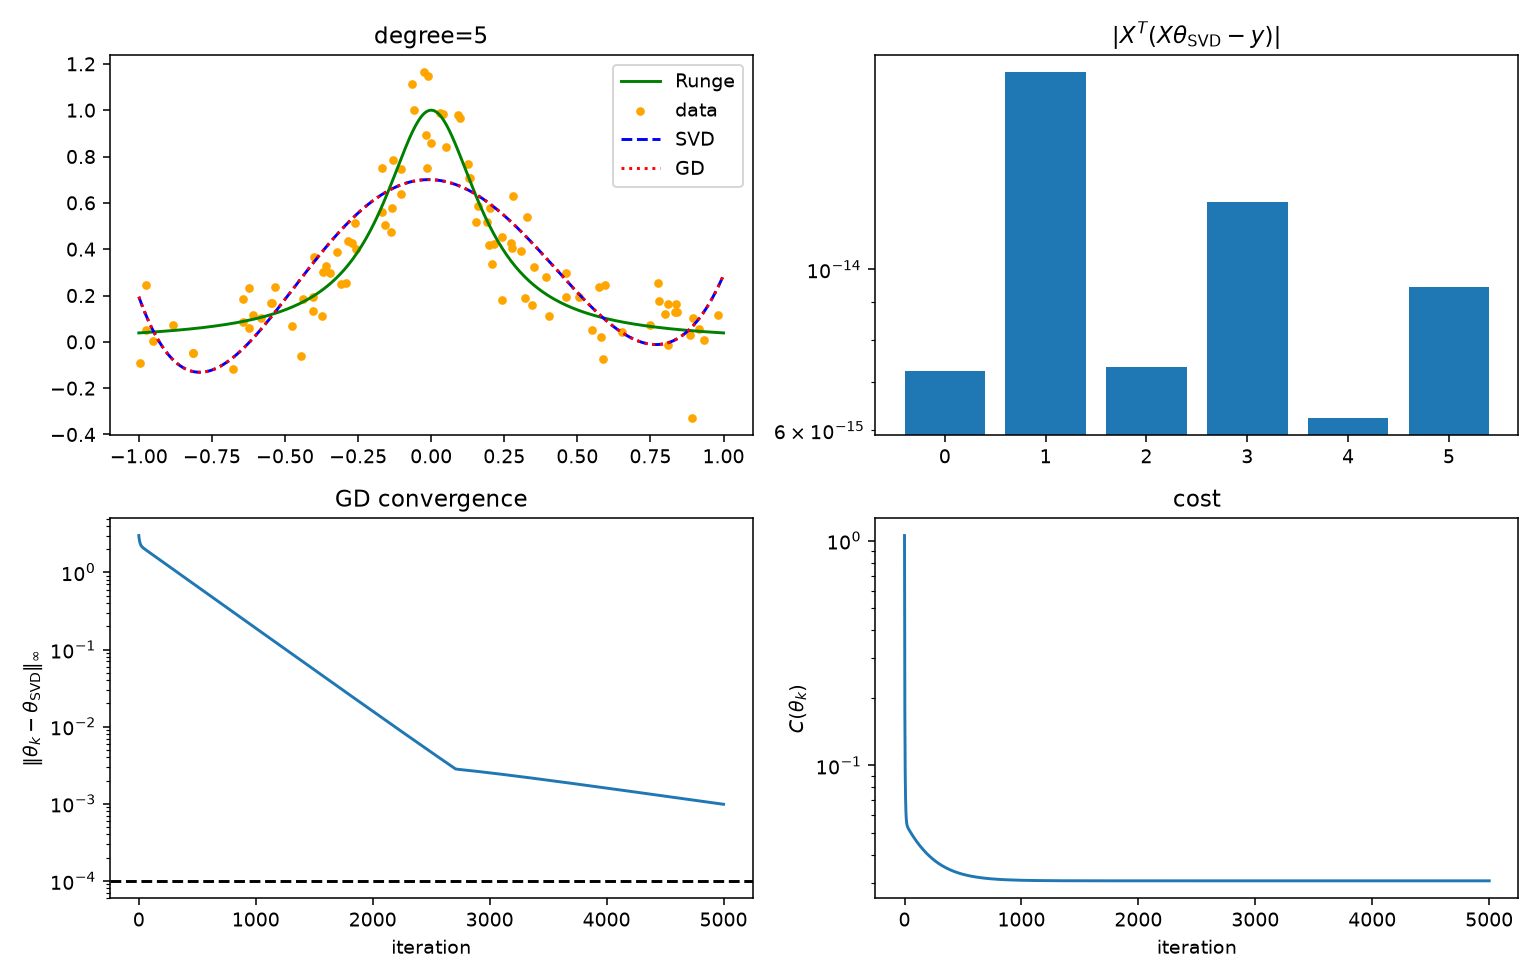
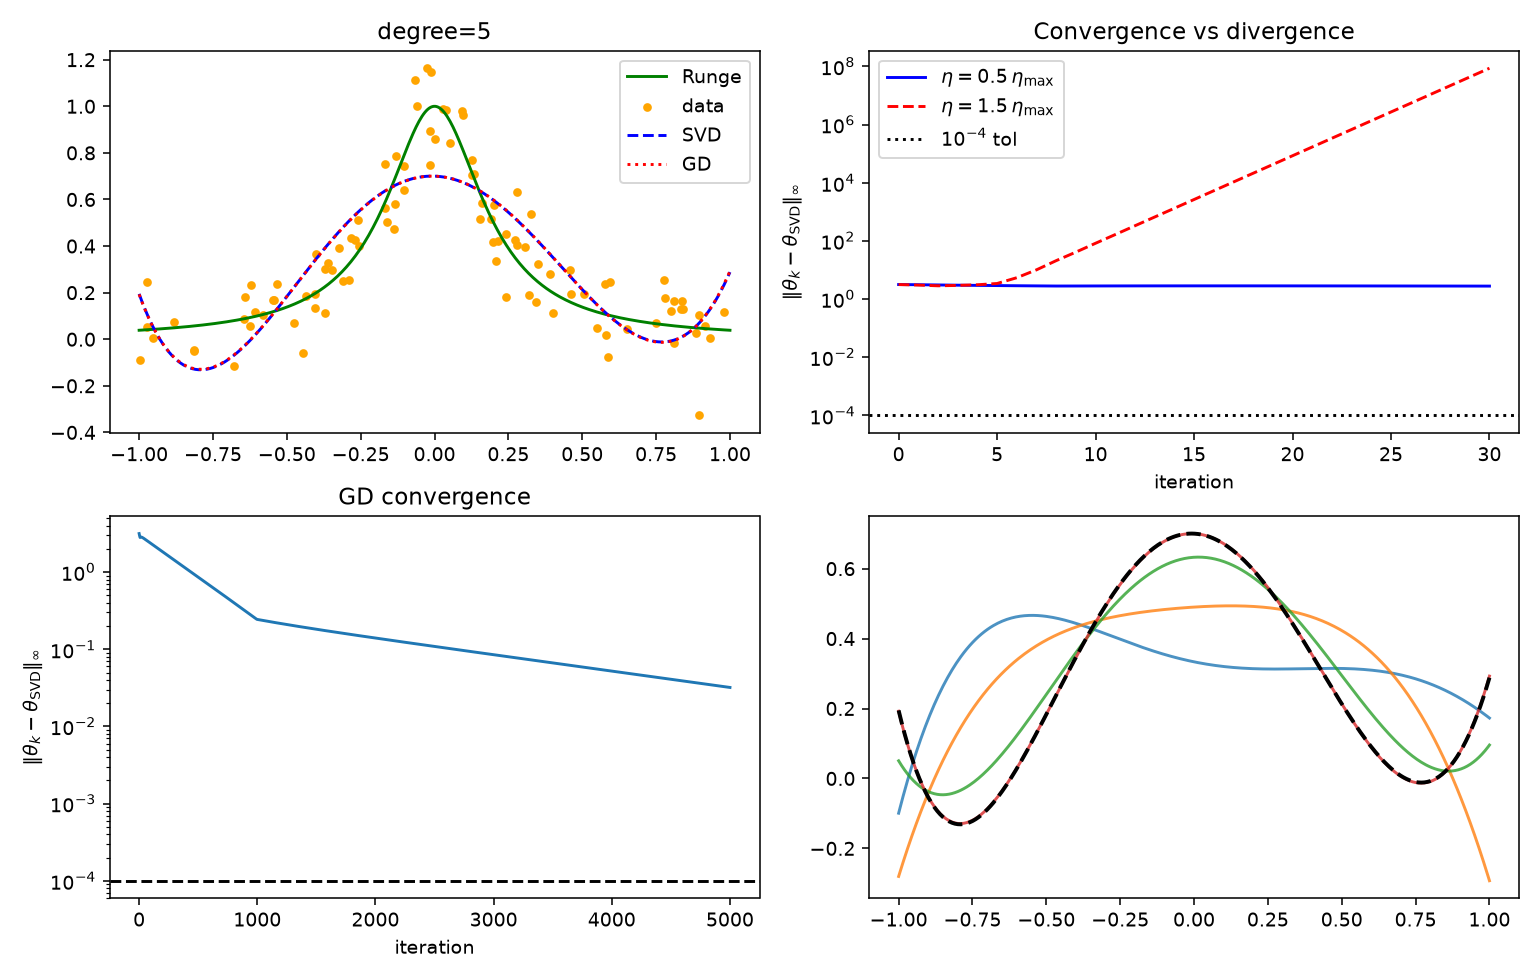
everything working now

diff --git a/Project1/results/theta_tests.py b/Project1/results/theta_tests.py
@@ -13,7 +13,10 @@ from polynomials.optimizers import eta_max_ols, cost_ols,cost_ridge, grad_ols_an
 import importlib, polynomials.optimizers
 importlib.reload(polynomials.optimizers)
 
-# ================= First we test SVD-based OLS fit on a simple example =================
+# =================================================================
+# (1) First we test SVD-based OLS fit on a simple example 
+# =================================================================
+
 x,y = generate_data(n=100, sigma=0.1, seed=2026)
 degree = 5 #Can also be changed to be for 8-15
 X = design_matrix(x, degree, intercept=True)
@@ -23,13 +26,16 @@ Xx = design_matrix(xx, degree, intercept=True)
 # ------------- Compare two solutions -------------------
 rng = np.random.default_rng(0)
 theta0 = rng.normal(size=X.shape[1])
-eta_safe = 0.5* eta_max_ols(X, X.shape[0])
 
-theta_ols_svd = fit_ols_SVD(X, y, rcond=1e-12) # "analytical" (closed form)
-theta_gd,hist = gd(grad_ols_analytic, theta0, n_iter=5000, eta=eta_safe, X=X, y=y) # iterative (gradient descent)
+eta = 0.5 * eta_max_ols(X, 100)
+eta_explode = 1.5 * eta_max_ols(X, 100)
+
+theta_gd, hist_gd = gd(grad_ols_analytic, theta0,
+                       n_iter=5000, eta=eta, X=X, y=y)
+theta_svd = fit_ols_SVD(X, y)
 
 # =================================================================
-# (1) GRADIENT CHECK:  analytic vs JAX AD, at the same theta
+# (2) GRADIENT CHECK:  analytic vs JAX AD, at the same theta
 # =================================================================
 g_an_ols   = grad_ols_analytic(theta0, X, y)
 g_ad_ols   = jax.grad(cost_ols, argnums=0)(theta0, X, y)
@@ -43,21 +49,12 @@ print(f"Ridge |∇_an − ∇_ad|_∞ = {np.max(np.abs(g_an_ridge - g_ad_ridge))
 # Both should print ~1e-15 to 1e-16 (machine precision).
 
 # =================================================================
-# (2) CLOSED-FORM CHECK:  GD must converge to fit_ols_SVD
+# CONVERGENCE / STABILITY PLOT
 # =================================================================
-eta = 0.5 * eta_max_ols(X, 100)
-eta_explode = 1.5 * eta_max_ols(X, 100)
+# trajectories for the stability panel
+_, hist_safe    = gd(grad_ols_analytic, theta0, n_iter=30, eta=eta,         X=X, y=y)
+_, hist_explode = gd(grad_ols_analytic, theta0, n_iter=30, eta=eta_explode, X=X, y=y)
 
-theta_gd, hist_gd = gd(grad_ols_analytic, theta0,
-                       n_iter=5000, eta=eta, X=X, y=y)
-theta_svd = fit_ols_SVD(X, y)
-
-print(f"GD vs SVD  |Δθ|_∞ = {np.max(np.abs(theta_gd - theta_svd)):.2e}")
-# Should be small (< 1e-3 at degree 5).
-
-# =================================================================
-# (3) CONVERGENCE / STABILITY PLOT
-# =================================================================
 fig, ax = plt.subplots(2, 2, figsize=(11, 7))
 
 # (a) fits — do GD and closed-form look the same?
@@ -72,15 +69,22 @@ ax[0,0].legend(); ax[0,0].set_title(f'degree={degree}')
 dist = [np.linalg.norm(t - theta_svd, ord=np.inf) for t in hist_gd]
 ax[1,0].semilogy(dist)
 ax[1,0].axhline(1e-4, ls='--', c='k')
-ax[1,0].set_xlabel('iteration'); ax[1,0].set_ylabel(r'$\|\theta_k-\theta_{\rm SVD}\|_\infty$')
+ax[1,0].set_xlabel('iteration')
+ax[1,0].set_ylabel(r'$\|\theta_k-\theta_{\rm SVD}\|_\infty$')
 ax[1,0].set_title('GD convergence')
 
 # (c) plot exploding step size:  GD diverges if η > η_max
-theta_gd_explode, hist_gd_explode = gd(grad_ols_analytic, theta0,
-                       n_iter=5000, eta=eta_explode, X=X, y=y)
-ax[0,1].plot(xx, Xx @ theta_gd_explode, 'r:', label='GD, diverging')
-ax[0,1].plot(xx, Xx @ theta_svd, 'k--', lw=2, label='SVD')
-ax[0,1].set_title(f'GD diverges for η={eta_explode:.2e} > η_max={eta_max_ols(X, 100):.2e}')     
+
+dist_safe    = [np.linalg.norm(t - theta_svd, ord=np.inf) for t in hist_safe]
+dist_explode = [np.linalg.norm(t - theta_svd, ord=np.inf) for t in hist_explode]
+
+ax[0,1].semilogy(dist_safe,    'b-',  label=r'$\eta = 0.5\,\eta_{\max}$')
+ax[0,1].semilogy(dist_explode, 'r--', label=r'$\eta = 1.5\,\eta_{\max}$')
+ax[0,1].axhline(1e-4, ls=':', c='k', label=r'$10^{-4}$ tol')
+ax[0,1].set_xlabel('iteration')
+ax[0,1].set_ylabel(r'$\|\theta_k - \theta_{\rm SVD}\|_\infty$')
+ax[0,1].legend()
+ax[0,1].set_title('Convergence vs divergence')
 
 
 # (d) Plots of GD marching toward SVD solution
@@ -99,35 +103,4 @@ plt.tight_layout()
 plt.savefig("test_gd.png", dpi=140)
 plt.legend(loc='center', bbox_to_anchor=(0.5, 0.3), ncol=2)
 plt.show()
-# # =================================================================
-# # (4) OPTIMIZER RACE  (must all share the same return interface)
-# # =================================================================
-# tol   = 1e-4
-# n_it  = 2000
-# opts = {
-#     "GD":       gd,
-#     "Momentum": gd_momentum,
-#     "AdaGrad":  adagrad,
-#     "RMSprop":  rmsprop,
-#     "Adam":     adam,
-# }
-# iters_to_tol = {}
-# for name, fn in opts.items():
-#     _, h = fn(grad_ols_analytic, theta0, n_iter=n_it, eta=eta, X=X, y=y)
-#     d = [np.max(np.abs(t - theta_svd)) for t in h]
-#     hit = next((i for i, v in enumerate(d) if v < tol), None)
-#     iters_to_tol[name] = hit
-#     print(f"{name:>9s}: {hit} iters to tol")
 
-# # =================================================================
-# # (5) LASSO vs SKLEARN  (sparsity claim)
-# # =================================================================
-# from sklearn.linear_model import Lasso
-# lam_l = 1e-3
-# theta_lasso_ours = adam(jax.grad(cost_lasso, argnums=0), theta0,
-#                         n_iter=5000, eta=1e-2, X=X, y=y, lam=lam_l)[0]
-
-# sk = Lasso(alpha=lam_l, fit_intercept=False, max_iter=10000).fit(X, y)
-
-# print(f"ours   nonzero: {np.sum(np.abs(theta_lasso_ours) > 1e-6)}")
-# print(f"sklearn nonzero: {np.sum(np.abs(sk.coef_) > 1e-6)}")
